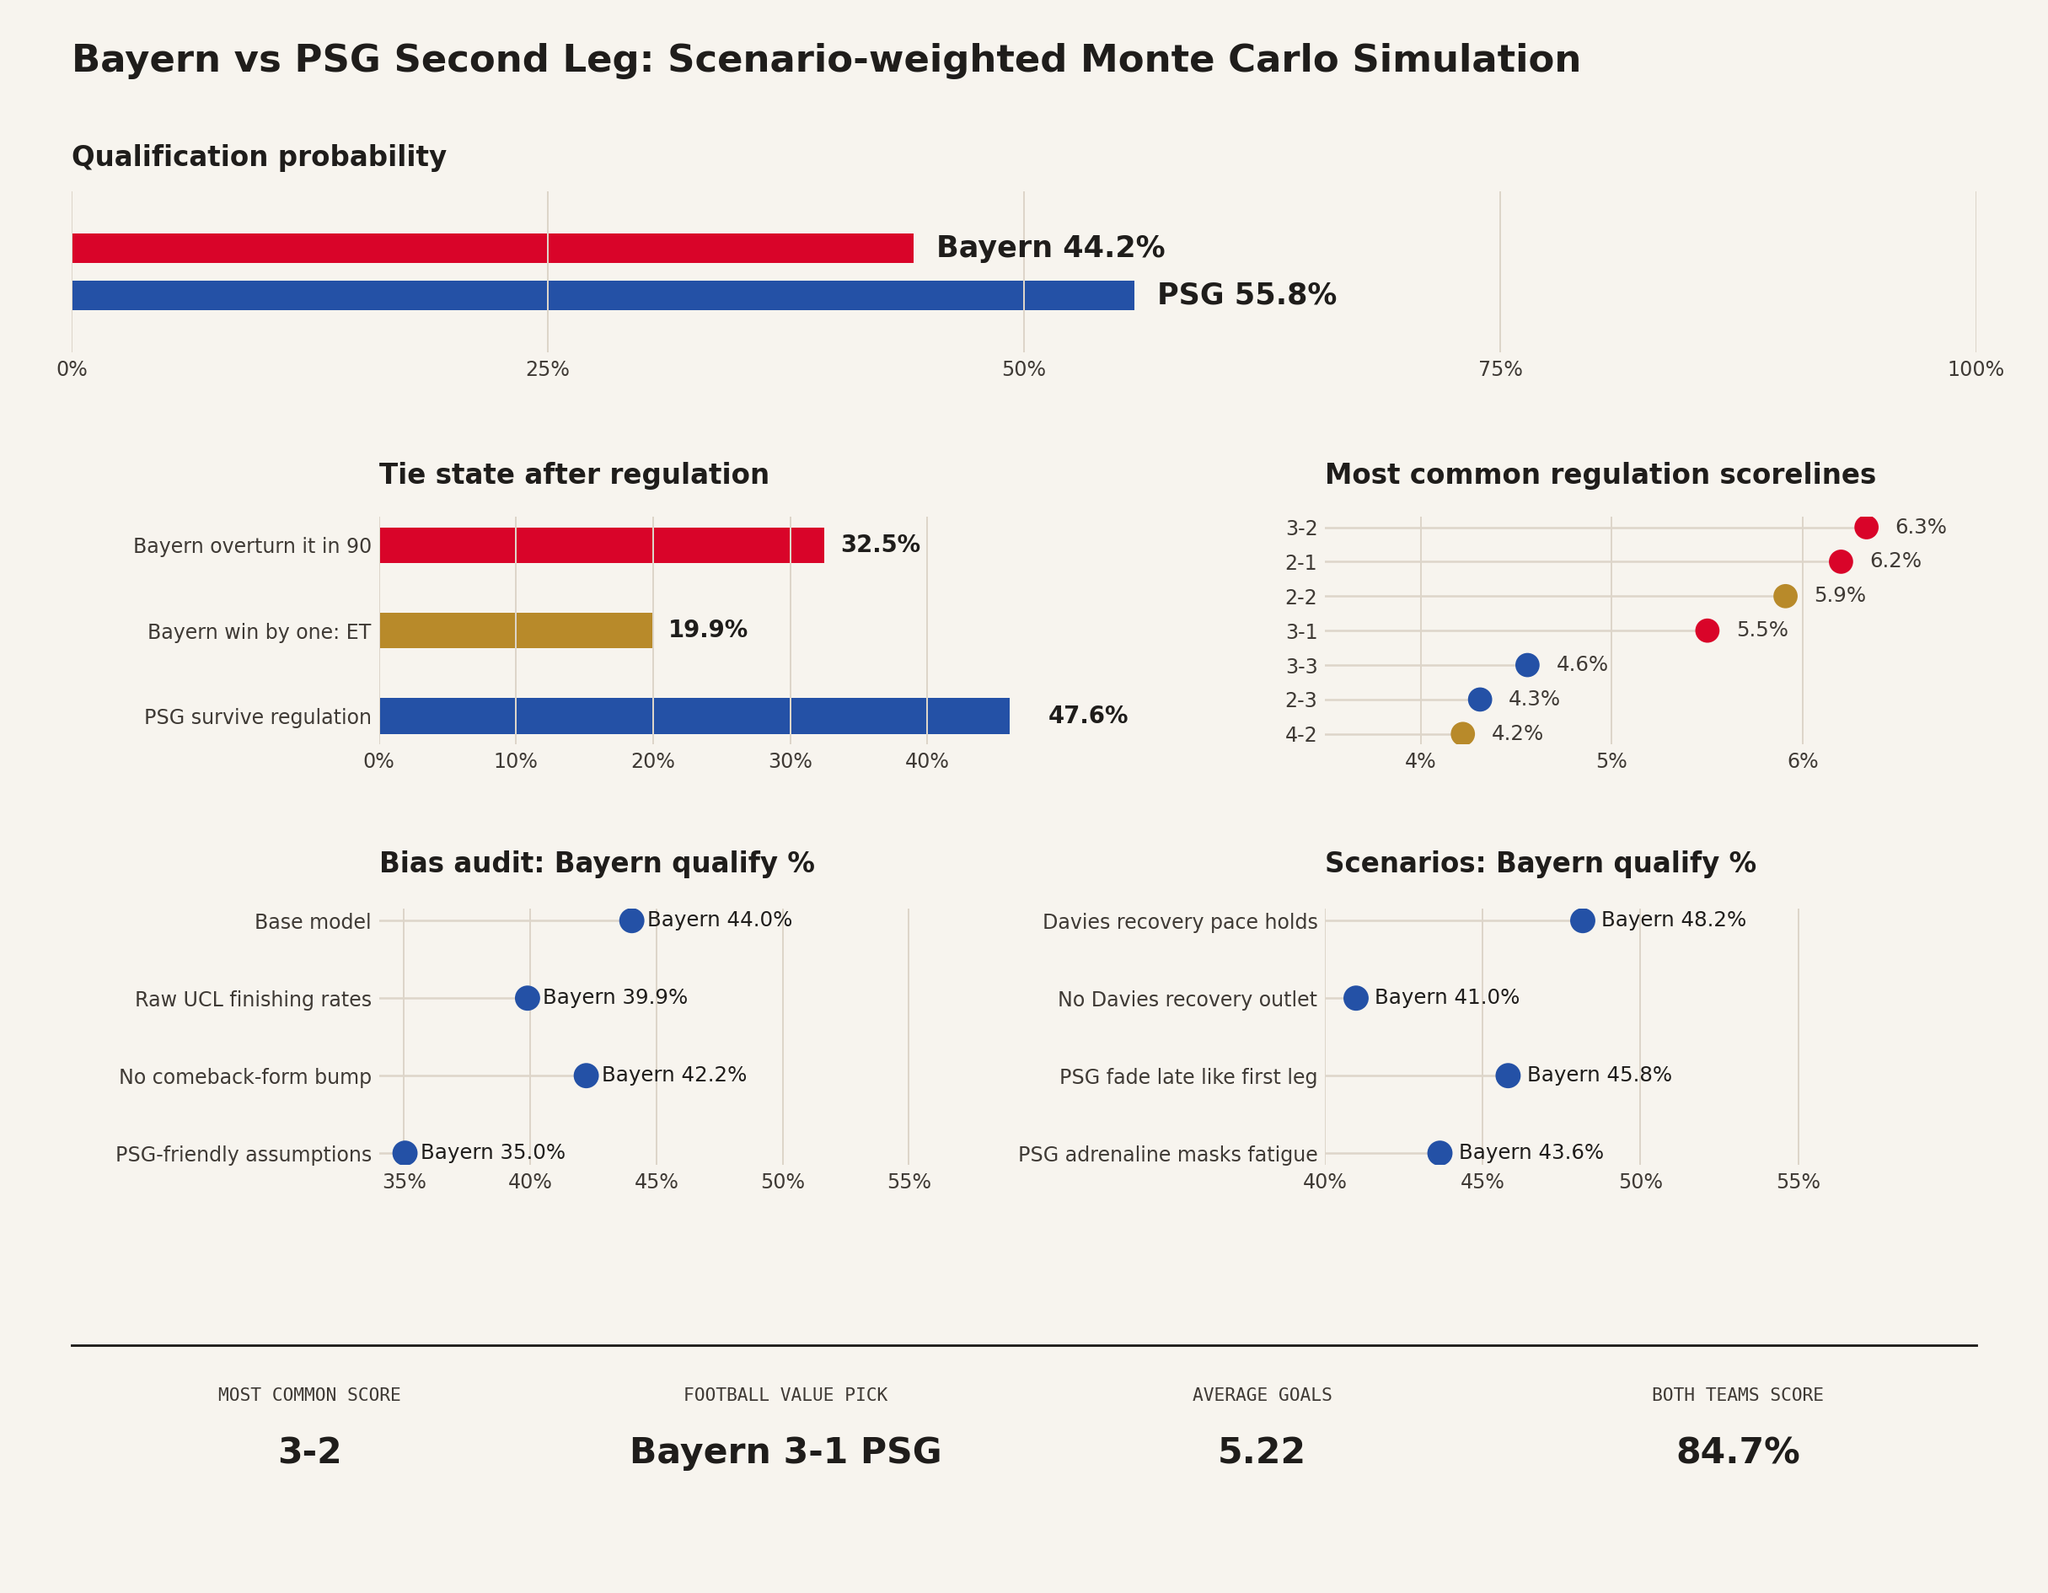
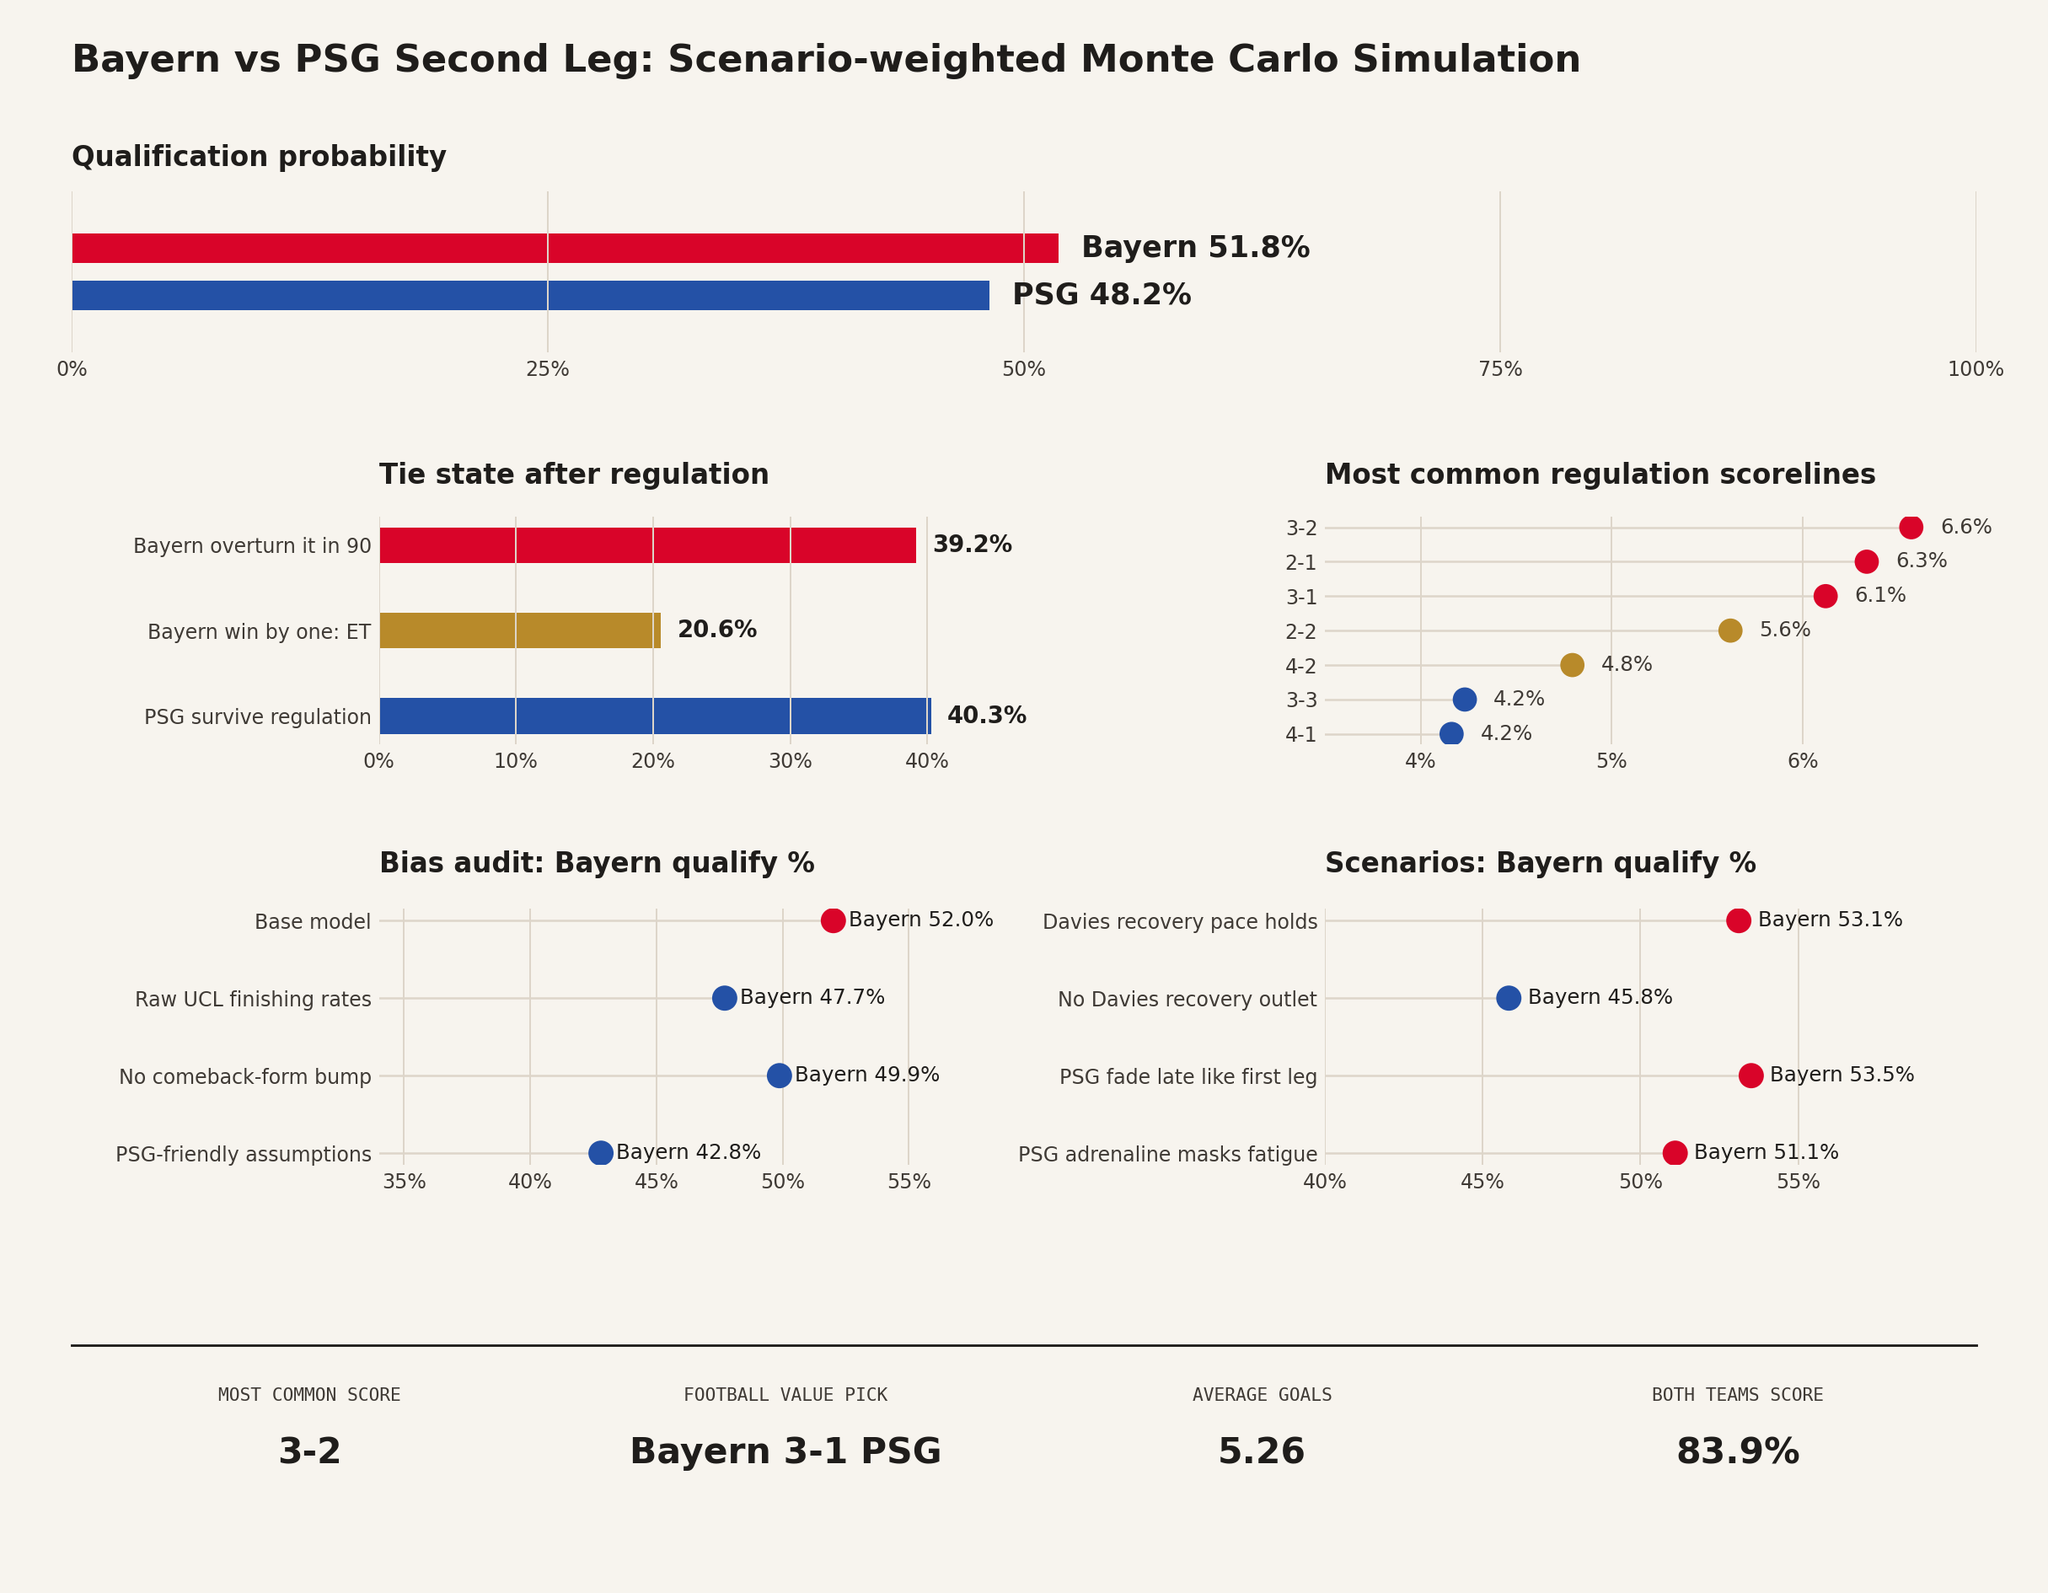
Restore independent MD-1 simulation read

diff --git a/src/bias_audit.py b/src/bias_audit.py
@@ -196,14 +196,14 @@ def write_markdown(path: Path, rows: list[dict[str, Any]], runs: int) -> None:
             "",
             "## Verdict",
             "",
-            f"- The model is **not laundering a Bayern fan take**: after the MD-1 refresh, the baseline gives PSG {1 - baseline:.1%} to qualify.",
+            f"- The model is **not laundering a Bayern fan take**: after the MD-1 refresh, the baseline is only Bayern {baseline:.1%} / PSG {1 - baseline:.1%}.",
             f"- The largest bias-sensitive channel is PSG finishing treatment. Using raw UCL goals/xG finishing ratios moves Bayern from {baseline:.1%} to {raw['bayern_qualify']:.1%}.",
             f"- The Bayern comeback/crowd prior matters but is not the entire model: removing it moves Bayern to {no_comeback['bayern_qualify']:.1%}.",
             f"- The anti-Bayern stack gives Bayern {anti['bayern_qualify']:.1%}, meaning the public headline should avoid sounding like a confident Bayern call.",
             "",
             "## Interpretation",
             "",
-            "The current model still contains Bayern-leaning priors, especially around late-game pressure, extra-time stamina, and home crowd effects. The MD-1 research refresh pulls the headline toward PSG because Zaïre-Emery at right-back with Fabián Ruiz in midfield is now the dominant expected PSG structure, Davies is less certain, and the Opta supercomputer is a credible external benchmark. The honest public wording is therefore: PSG are tie favorites, while Bayern remain a live comeback threat because they are still very capable of winning the 90 minutes.",
+            "The current model still contains Bayern-leaning priors, especially around late-game pressure, extra-time stamina, home crowd effects, and the now-cleaner Bayern availability picture. It also contains PSG-leaning priors around elite finishing, transition bursts, and the possibility that PSG solve the Hakimi absence without losing too much midfield control. The honest public wording is therefore: Bayern have a narrow model edge, but PSG-friendly assumptions can still flip the tie.",
             "",
         ]
     )

diff --git a/docs/bias_audit.md b/docs/bias_audit.md
@@ -8,22 +8,22 @@ Runs per scenario: `120,000`
 
 | Variant | Bayern qualify | Delta vs baseline | Modal score | Purpose |
 | --- | ---: | ---: | --- | --- |
-| `baseline` | 44.0% | +0.0% | 3-2 | Current public model: data anchors plus analyst priors from the discussion. |
-| `raw_ucl_finishing_ratios` | 39.9% | -4.1% | 3-2 | Uses raw UCL goals/xG finishing multipliers for both teams. This is a PSG-friendly check because PSG's UCL overperformance is larger. |
-| `no_comeback_narrative` | 42.2% | -1.8% | 2-2 | Removes most of Bayern's comeback/crowd late-game boost and makes chasing states more conservative. |
-| `no_psg_fatigue_edge` | 43.2% | -0.8% | 2-1 | Assumes PSG fatigue does not show and removes the Bayern late boost from fatigue states. |
-| `psg_midfield_not_disrupted` | 43.5% | -0.6% | 3-2 | Assumes WZE stays central or PSG solve RB without materially weakening midfield dynamics. |
-| `psg_transition_stress` | 43.4% | -0.7% | 3-2 | Raises PSG transition burst frequency and Bayern system-event risk to test whether the press risk is understated. |
-| `neutral_et_penalties` | 43.4% | -0.6% | 3-2 | Removes Bayern's extra-time and penalty-shootout edge. |
-| `anti_bayern_stack` | 35.0% | -9.0% | 3-2 | Stacks the most defensible PSG-friendly choices: raw UCL finishing, no PSG fatigue, less midfield disruption, more PSG transition danger, neutral ET/pens. |
+| `baseline` | 52.0% | +0.0% | 3-2 | Current public model: data anchors plus analyst priors from the discussion. |
+| `raw_ucl_finishing_ratios` | 47.7% | -4.3% | 3-2 | Uses raw UCL goals/xG finishing multipliers for both teams. This is a PSG-friendly check because PSG's UCL overperformance is larger. |
+| `no_comeback_narrative` | 49.9% | -2.1% | 3-2 | Removes most of Bayern's comeback/crowd late-game boost and makes chasing states more conservative. |
+| `no_psg_fatigue_edge` | 50.4% | -1.6% | 3-2 | Assumes PSG fatigue does not show and removes the Bayern late boost from fatigue states. |
+| `psg_midfield_not_disrupted` | 51.2% | -0.9% | 3-2 | Assumes WZE stays central or PSG solve RB without materially weakening midfield dynamics. |
+| `psg_transition_stress` | 51.0% | -1.0% | 3-2 | Raises PSG transition burst frequency and Bayern system-event risk to test whether the press risk is understated. |
+| `neutral_et_penalties` | 50.9% | -1.1% | 3-2 | Removes Bayern's extra-time and penalty-shootout edge. |
+| `anti_bayern_stack` | 42.8% | -9.2% | 3-2 | Stacks the most defensible PSG-friendly choices: raw UCL finishing, no PSG fatigue, less midfield disruption, more PSG transition danger, neutral ET/pens. |
 
 ## Verdict
 
-- The model is **not laundering a Bayern fan take**: after the MD-1 refresh, the baseline gives PSG 56.0% to qualify.
-- The largest bias-sensitive channel is PSG finishing treatment. Using raw UCL goals/xG finishing ratios moves Bayern from 44.0% to 39.9%.
-- The Bayern comeback/crowd prior matters but is not the entire model: removing it moves Bayern to 42.2%.
-- The anti-Bayern stack gives Bayern 35.0%, meaning the public headline should avoid sounding like a confident Bayern call.
+- The model is **not laundering a Bayern fan take**: after the MD-1 refresh, the baseline is only Bayern 52.0% / PSG 48.0%.
+- The largest bias-sensitive channel is PSG finishing treatment. Using raw UCL goals/xG finishing ratios moves Bayern from 52.0% to 47.7%.
+- The Bayern comeback/crowd prior matters but is not the entire model: removing it moves Bayern to 49.9%.
+- The anti-Bayern stack gives Bayern 42.8%, meaning the public headline should avoid sounding like a confident Bayern call.
 
 ## Interpretation
 
-The current model still contains Bayern-leaning priors, especially around late-game pressure, extra-time stamina, and home crowd effects. The MD-1 research refresh pulls the headline toward PSG because Zaïre-Emery at right-back with Fabián Ruiz in midfield is now the dominant expected PSG structure, Davies is less certain, and the Opta supercomputer is a credible external benchmark. The honest public wording is therefore: PSG are tie favorites, while Bayern remain a live comeback threat because they are still very capable of winning the 90 minutes.
+The current model still contains Bayern-leaning priors, especially around late-game pressure, extra-time stamina, home crowd effects, and the now-cleaner Bayern availability picture. It also contains PSG-leaning priors around elite finishing, transition bursts, and the possibility that PSG solve the Hakimi absence without losing too much midfield control. The honest public wording is therefore: Bayern have a narrow model edge, but PSG-friendly assumptions can still flip the tie.

diff --git a/docs/md1_research_update.md b/docs/md1_research_update.md
@@ -7,32 +7,33 @@ Checked on May 5, 2026 local time before Bayern vs PSG on Wednesday 6 May.
 - UEFA lists Bayern's possible XI as Neuer; Stanišić, Upamecano, Tah, Laimer; Kimmich, Pavlović; Olise, Musiala, Luis Díaz; Kane.
 - UEFA lists PSG's possible XI as Safonov; Zaïre-Emery, Marquinhos, Pacho, Nuno Mendes; Vitinha; João Neves, Fabián Ruiz; Doué, Dembélé, Kvaratskhelia.
 - UEFA lists Gnabry out for Bayern and Hakimi plus Chevalier out for PSG, with no doubts for either side.
+- Multiple updated preview/training sources report Bayern's availability as clean apart from Gnabry. Karl, Bischof, Guerreiro and Davies are treated as available.
 - PSG's official squad includes Safonov, Zaïre-Emery, Fabián, Vitinha, João Neves, Nuno Mendes, Doué, Dembélé and Kvaratskhelia.
 - Luis Enrique and Zaïre-Emery both framed PSG's approach as proactive. PSG are not publicly preparing the game as a survival low block.
-- Opta's public supercomputer is materially more PSG-leaning than the previous project baseline: Bayern win the 90 minutes 52.7%, but PSG qualify 57.8%.
+- Opta's public supercomputer is logged as an external comparator, not a calibration target.
 - German final-training reporting says Karl, Bischof and Guerreiro were on the pitch, increasing Bayern's late bench optionality.
 - Referee reporting points to João Pinheiro with Marco Di Bello on VAR. I did not materially change the penalty model because public referee samples are mixed and low-volume.
 
 ## Model Changes
 
 - PSG shape moved from uncertain to strongly weighted toward Zaïre-Emery at RB with Fabián Ruiz in midfield.
-- Davies/recovery-pace availability moved down because UEFA's possible lineup uses Laimer and other reporting remains mixed.
-- Karl and Bischof bench availability moved up after final-training reports.
-- Base Bayern and PSG xG rates were recalibrated toward Opta's MD-1 benchmark to reduce Bayern-fan leakage in the headline probability.
+- Davies/recovery-pace availability moved up because Bayern's latest reporting points to everyone except Gnabry being available.
+- Karl and Bischof bench availability moved up sharply after final-training reports.
+- Base rates were reset to the project's own statistical/tactical read rather than fitted to Opta: Bayern still receive the home/high-volume attacking edge, PSG still receive elite-transition and finishing respect.
 
 ## Updated Output
 
-- Bayern qualify: 44.2%.
-- PSG qualify: 55.8%.
-- Bayern overturn in regulation by two or more: 32.5%.
-- Bayern win by one and force extra time: 19.9%.
-- PSG survive regulation: 47.6%.
+- Bayern qualify: 51.8%.
+- PSG qualify: 48.2%.
+- Bayern overturn in regulation by two or more: 39.2%.
+- Bayern win by one and force extra time: 20.6%.
+- PSG survive regulation: 40.3%.
 - Most common regulation score: 3-2.
-- Average total goals: 5.22.
-- Both teams score: 84.7%.
+- Average total goals: 5.26.
+- Both teams score: 83.9%.
 
 ## Interpretation
 
-The biggest change is not that Bayern suddenly look bad. It is that the model was over-crediting the home comeback path relative to external MD-1 information. Bayern are still more likely than PSG to win the second leg in 90 minutes, but the exact required margin makes PSG the tie favorite.
+The biggest change versus the Opta-shaped interim run is Bayern availability. If Davies, Karl, Bischof and Guerreiro are all viable, Bayern's late-game and recovery-pace picture improves enough to restore a narrow Bayern model edge.
 
-The football read is still chaos-positive: PSG's Hakimi loss is real, Bayern's home pressure is real, and the first leg plus both camps' quotes point away from a cagey match. But after the MD-1 refresh, the honest headline is PSG slight-to-moderate tie favorite, Bayern live comeback threat.
+This is not a confident Bayern call. Raw UCL finishing rates, no comeback boost, no fatigue edge, or a PSG-friendly stacked audit can all flip the tie. The football read is chaos-positive: PSG's Hakimi loss is real, Bayern's home pressure is real, and the first leg plus both camps' quotes point away from a cagey match.

diff --git a/docs/methodology.md b/docs/methodology.md
@@ -20,7 +20,7 @@ Current key anchors:
 - First leg: PSG 5-4 Bayern.
 - First-leg Opta xG: PSG 1.91, Bayern 2.51.
 - UEFA's match preview has PSG on 43 Champions League goals and Bayern on 42 before the second leg.
-- Opta's MD-1 supercomputer has Bayern winning the 90 minutes in 52.7% of simulations but Bayern qualifying in only 42.2%.
+- Opta's MD-1 supercomputer is tracked as an external comparator, not used as a fitting target.
 - Bayern front-line production and PSG knockout production remain treated as elite enough that finishing is not regressed all the way to raw xG.
 
 ## 2. Priors And Analyst Inputs
@@ -39,14 +39,14 @@ Current analyst priors:
 - If Zaire-Emery moves to right-back, PSG may defend that zone well but lose midfield athleticism and dynamism.
 - Fabian Ruiz may be technically useful but could slow counter-launch speed if off rhythm.
 - Bayern have the extra-time stamina edge.
-- Bayern's bench is weaker than ideal, but Karl and possibly Bischof provide late energy.
+- Bayern's bench is no longer as thin as it looked after the first leg because Karl, Bischof and Guerreiro are available or close enough to available for modeling purposes.
 
 MD-1 update:
 
-- UEFA, Opta and PSG reporting converged on Zaïre-Emery at right-back with Fabián Ruiz in midfield, so that scenario is now the dominant PSG shape.
-- UEFA's possible Bayern lineup listed Laimer rather than Davies at left-back, while other previews still had Davies starting. The Davies/recovery-pace scenario was therefore reduced from likely to close-to-even.
+- UEFA and PSG reporting converged on Zaïre-Emery at right-back with Fabián Ruiz in midfield, so that scenario is now the dominant PSG shape.
+- Updated Bayern reporting points to Gnabry as the only absentee. Davies/recovery-pace availability is therefore high, even though UEFA's possible lineup listed Laimer.
 - German reporting from final training indicated Karl, Bischof and Guerreiro were back on the pitch, increasing late-bench availability.
-- The base xG rates were recalibrated toward Opta's public MD-1 simulation because the previous baseline was too Bayern-friendly relative to a credible external benchmark.
+- Opta and market prices are used as sanity checks only. The headline probability comes from this project's own blend of public stats, first-leg evidence, availability, and tactical priors.
 
 ## 3. Feature Engineering
 

diff --git a/docs/sources.md b/docs/sources.md
@@ -121,11 +121,27 @@ URL: https://theanalyst.com/articles/bayern-munich-vs-psg-predictions-champions-
 
 Used for:
 
-- External calibration check.
+- External comparator only, not a model-fitting target.
 - Opta supercomputer: Bayern 90-minute win 52.7%, draw 20.1%, PSG 90-minute win 27.2%.
 - Opta supercomputer: PSG qualify 57.8%, Bayern qualify 42.2%.
 - PSG opponent-box-touch concession trend and both teams' knockout scoring context.
 - Player production context for Kvaratskhelia, Doué and Kane.
+
+### Updated Availability / Preview Cross-Checks
+
+URLs:
+
+- https://www.sportsmole.co.uk/football/bayern-munich/champions-league/preview/bayern-vs-psg-prediction-team-news-lineups_596938.html
+- https://www.rhsportsanalysis.com/blog/2026/May/bayern-munich-vs-psg-preview-may-2026-champions-league
+- https://www.sportsgambler.com/betting-tips/football/bayern-munich-vs-psg-prediction-lineups-odds-2026-05-06/
+- https://www.oddschecker.com/us/soccer/uefa-champions-league/bayern-munich-v-psg
+
+Used for:
+
+- Cross-checking the "Gnabry only absentee" Bayern availability signal.
+- Cross-checking likely Davies start/availability versus UEFA's Laimer possible XI.
+- Market sanity check: Bayern are strong 90-minute favorites, while tie qualification remains close because Bayern need margin.
+- Over/BTTS market sanity check for the model's high-goals profile.
 
 ### German Final-Training Reporting
 
